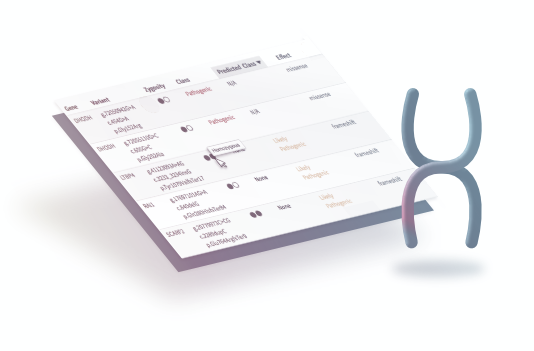
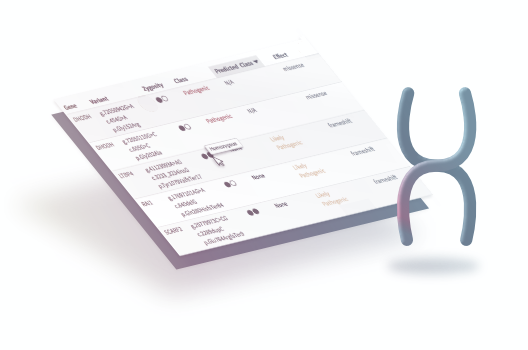
Add hover effect for cover images

diff --git a/src/templates/work.html b/src/templates/work.html
@@ -41,7 +41,10 @@
             </p>
             <h3>$roster.title$</h3>
             <p>$roster.subtitle$</p>
-            <img class="cover-img" alt="$roster.cover_img.alt$" src="$roster.cover_img.src$"/>
+            <div class="cover-img">
+              <img alt="$roster.cover_img.alt$" src="$roster.cover_img.static_src$"/>
+              <img alt="$roster.cover_img.alt$" src="$roster.cover_img.hover_src$"/>
+            </div>
           </section>
         </a>
         $endfor$

diff --git a/src/css/images.css b/src/css/images.css
@@ -41,6 +41,20 @@
   /* padding-left: var(--size3); */
 }
 
+.cover-img > img {
+  height: 100%;
+} 
+
+.cover-img > img:last-child {
+    position: absolute;
+    top: 0;
+    opacity: 0;
+    transition: opacity ease-out 0.5s;
+}
+a:hover .cover-img > img:last-child {
+  opacity: 1;
+}
+
 @media only screen and (max-width: 960px) {
   .cover-img {
     border-left: unset;

diff --git a/src/case-studies/gears-dashboard.md b/src/case-studies/gears-dashboard.md
@@ -10,7 +10,8 @@ hero:
   src: /assets/img/gears-dashboard/gears-dashboard-hero.png
 cover_img:
   alt: Cover image of GEARS Cloud Dashboard
-  src: /assets/img/gears-dashboard/gears-dashboard-cover.png
+  static_src: /assets/img/gears-dashboard/gears-dashboard-cover.png
+  hover_src: /assets/img/gears-dashboard/gears-dashboard-cover-hover.png
 metadata: src/case-studies/project-roster.yml
 filter: scripts/filters/get-next-project.lua
 ---

diff --git a/src/case-studies/netgear-captive-portal.md b/src/case-studies/netgear-captive-portal.md
@@ -10,7 +10,8 @@ hero:
   src: /assets/img/netgear/netgear-captive-portal-hero.png
 cover_img:
   alt: Cover image of Netgear Captive Portal
-  src: /assets/img/netgear/netgear-captive-portal-cover.png
+  static_src: /assets/img/netgear/netgear-captive-portal-cover.png
+  hover_src: /assets/img/netgear/netgear-captive-portal-cover-hover.png
 metadata: src/case-studies/project-roster.yml
 filter: scripts/filters/get-next-project.lua
 ---

diff --git a/src/case-studies/fringe-studio.md b/src/case-studies/fringe-studio.md
@@ -10,7 +10,8 @@ hero:
   src: /assets/img/mixi-modular/mixi-modular-hero.png
 cover_img:
   alt: Cover image of Mixi-Modular furniture builder
-  src: /assets/img/mixi-modular/mixi-modular-cover.png
+  static_src: /assets/img/mixi-modular/mixi-modular-cover.png
+  hover_src: /assets/img/mixi-modular/mixi-modular-cover-hover.png
 metadata: src/case-studies/project-roster.yml
 filter: scripts/filters/get-next-project.lua
 ---

diff --git a/src/case-studies/botanic.md b/src/case-studies/botanic.md
@@ -10,7 +10,8 @@ hero:
  src: /assets/img/botanic/botanic-guru-hero.png
 cover_img:
   alt: Cover image of Botanic iWithin Guru
-  src: /assets/img/botanic/botanic-guru-cover.png
+  static_src: /assets/img/botanic/botanic-guru-cover.png
+  hover_src: /assets/img/botanic/botanic-guru-cover-hover.png
 metadata: src/case-studies/project-roster.yml
 filter: scripts/filters/get-next-project.lua
 ---

diff --git a/src/case-studies/omicia.md b/src/case-studies/omicia.md
@@ -10,7 +10,8 @@ hero:
   src: /assets/img/omicia/omicia-hero.png
 cover_img:
   alt: Cover image of Omicia Opal Application
-  src: /assets/img/omicia/omicia-cover.png
+  static_src: /assets/img/omicia/omicia-cover.png
+  hover_src: /assets/img/omicia/omicia-cover-hover.png
 metadata: src/case-studies/project-roster.yml
 filter: scripts/filters/get-next-project.lua
 ---
